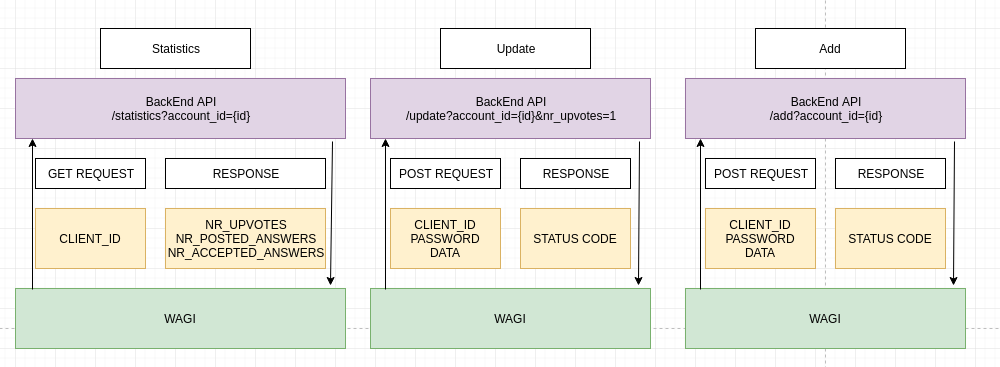
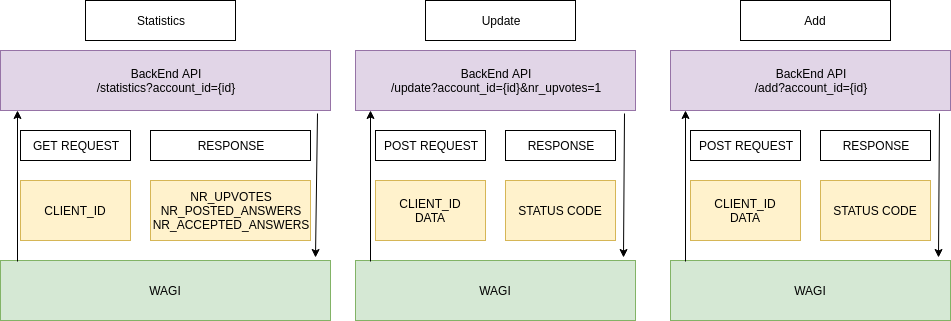
update

diff --git a/WaGiArchitecture.html b/WaGiArchitecture.html
@@ -461,8 +461,7 @@
             <p>The backend REST API will have 3 mehods:</p>
             <p>- GET the statistics, which require only the client id as parameter and returns a JSON with all the
                 information from the database (NR_UPVOTES, NR_POSTED_ANSWERS, NR_ACCEPTED_ANSWERS)</p>
-            <p>- UPDATE the statistics, which require the client id, the data which should be updated and the password
-                for the database.</p>
+            <p>- UPDATE the statistics, which require the client id and the data which should be updated.</p>
             <p>- ADD user, which will add the user in our database on login if he is not already added.</p>
             <figure typeof="sa:Image">
                 <img src="WaGi_files/WaGi-BackEndAPI.png" width="880" height="655">
